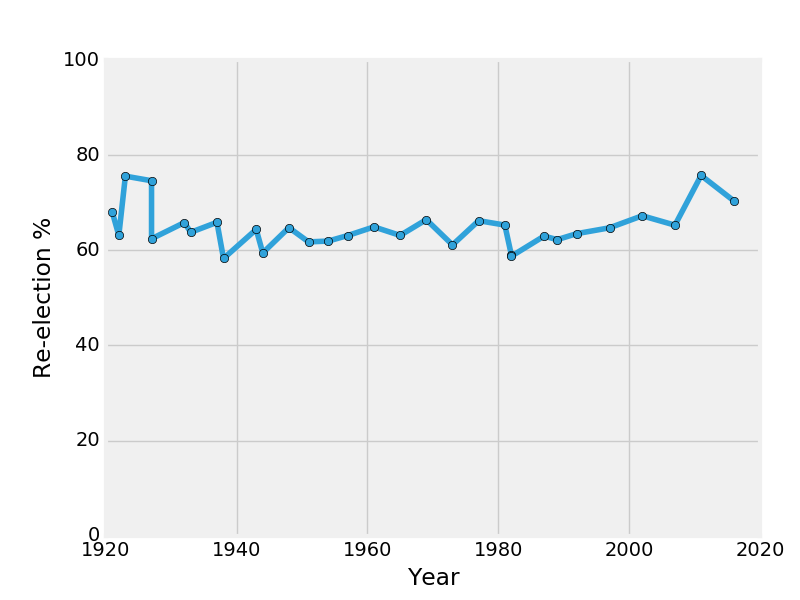
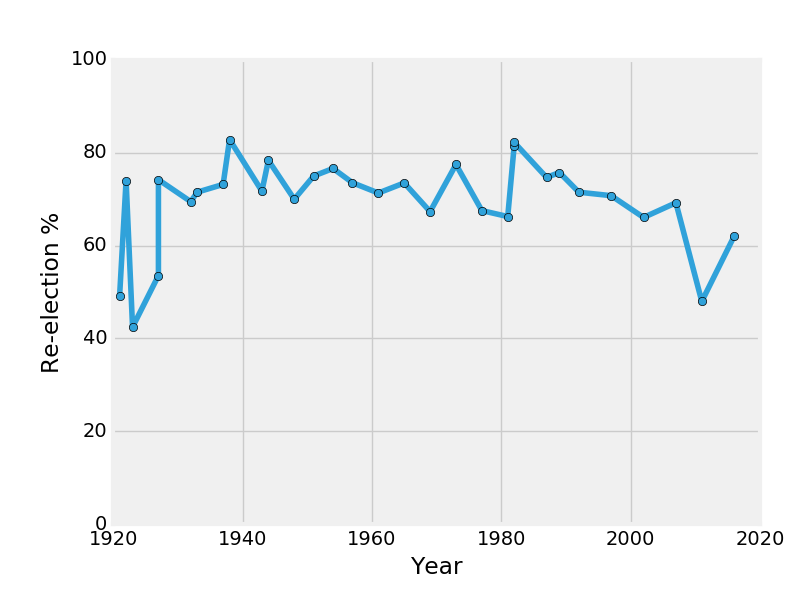
fixed figure

diff --git a/reelection.py b/reelection.py
@@ -38,13 +38,15 @@ def reelection_frac():
 
         reel_frac = []
         for i in range(0,31):
-                seats_in_both  = len(set(tds[i])) + len(set(tds[i+1]))
-                people_in_both = len(set(tds[i]).union(set(tds[i+1])))
-
-                reel_frac.append(people_in_both / seats_in_both)
+                
+                seats_available = len(set(tds[i+1]))
+                people_in_both  = len(set(tds[i]).intersection(set(tds[i+1])))
+                
+                reel_frac.append(people_in_both / seats_available)
         
         return reel_frac
 
+tds = read_names()
 years = read_dates()
 pct   = [i*100 for i in reelection_frac()]
 
